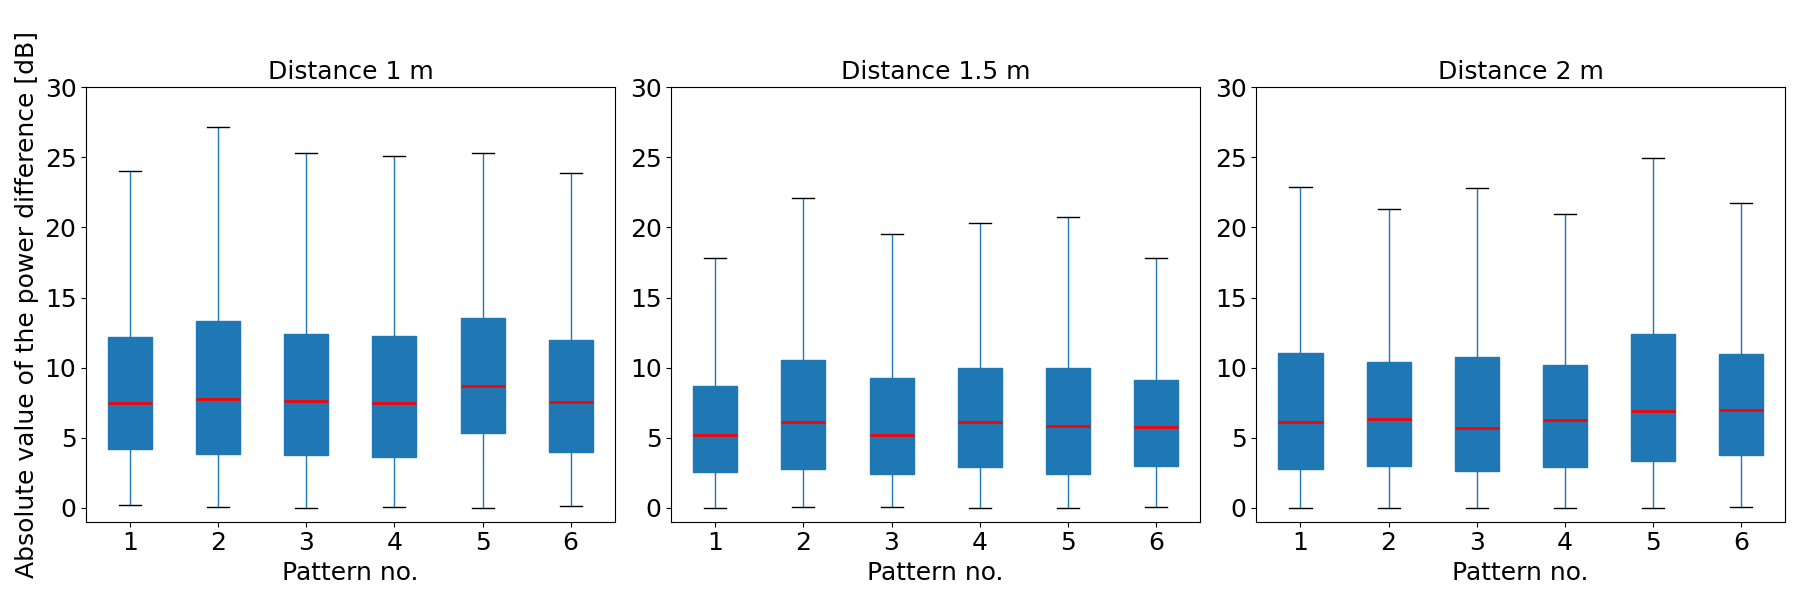
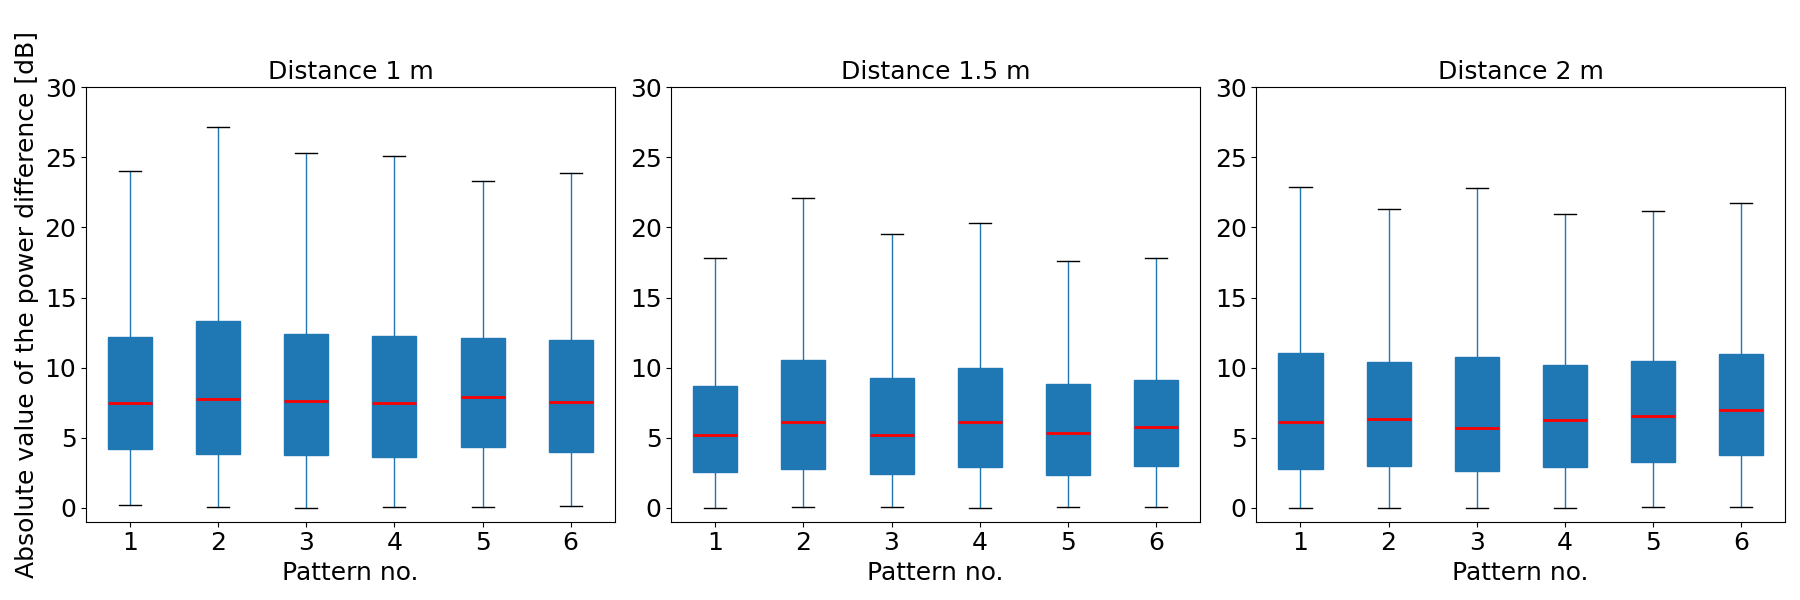
Znowu xD

diff --git a/metryki_porownywanie/metryki_boxploty/Box_Plot/boxplot_aritcle.py b/metryki_porownywanie/metryki_boxploty/Box_Plot/boxplot_aritcle.py
@@ -7,7 +7,7 @@ import matplotlib.pyplot as plt
 def tworz_subploty_wykresow(plik_csv_lista, wybrane_patterny, folder_wynikowy):
     # Mapa, która przypisuje oryginalnym patternom (np. 1, 20, 17, 8, 22, 19)
     # nowe wartości w zakresie 1–6 (lub według potrzeb)
-    pattern_mapping = {1: 1, 20: 2, 17: 3, 8: 4, 22: 5, 26: 6}
+    pattern_mapping = {1: 1, 20: 2, 17: 3, 8: 4, 23: 5, 26: 6}
 
     # Podziel pliki na grupy po 3
     title = ["Distance 1 m", "Distance 1.5 m", "Distance 2 m"]
@@ -112,7 +112,7 @@ plik_csv_lista = [
 folder_wynikowy = "/Users/pawelplaczkiewicz/Documents/Dokumenty – Mac mini (Paweł)/GitHub/Python_RIS/metryki_porownywanie/metryki_boxploty/box_plot_results_merge"
 
 # Wybrane patterny
-wybrane_patterny = [1, 20, 17, 8, 22, 26]
+wybrane_patterny = [1, 20, 17, 8, 23, 26]
 
 # Tworzenie subplotów wykresów dla grup plików CSV
 tworz_subploty_wykresow(plik_csv_lista, wybrane_patterny, folder_wynikowy)
